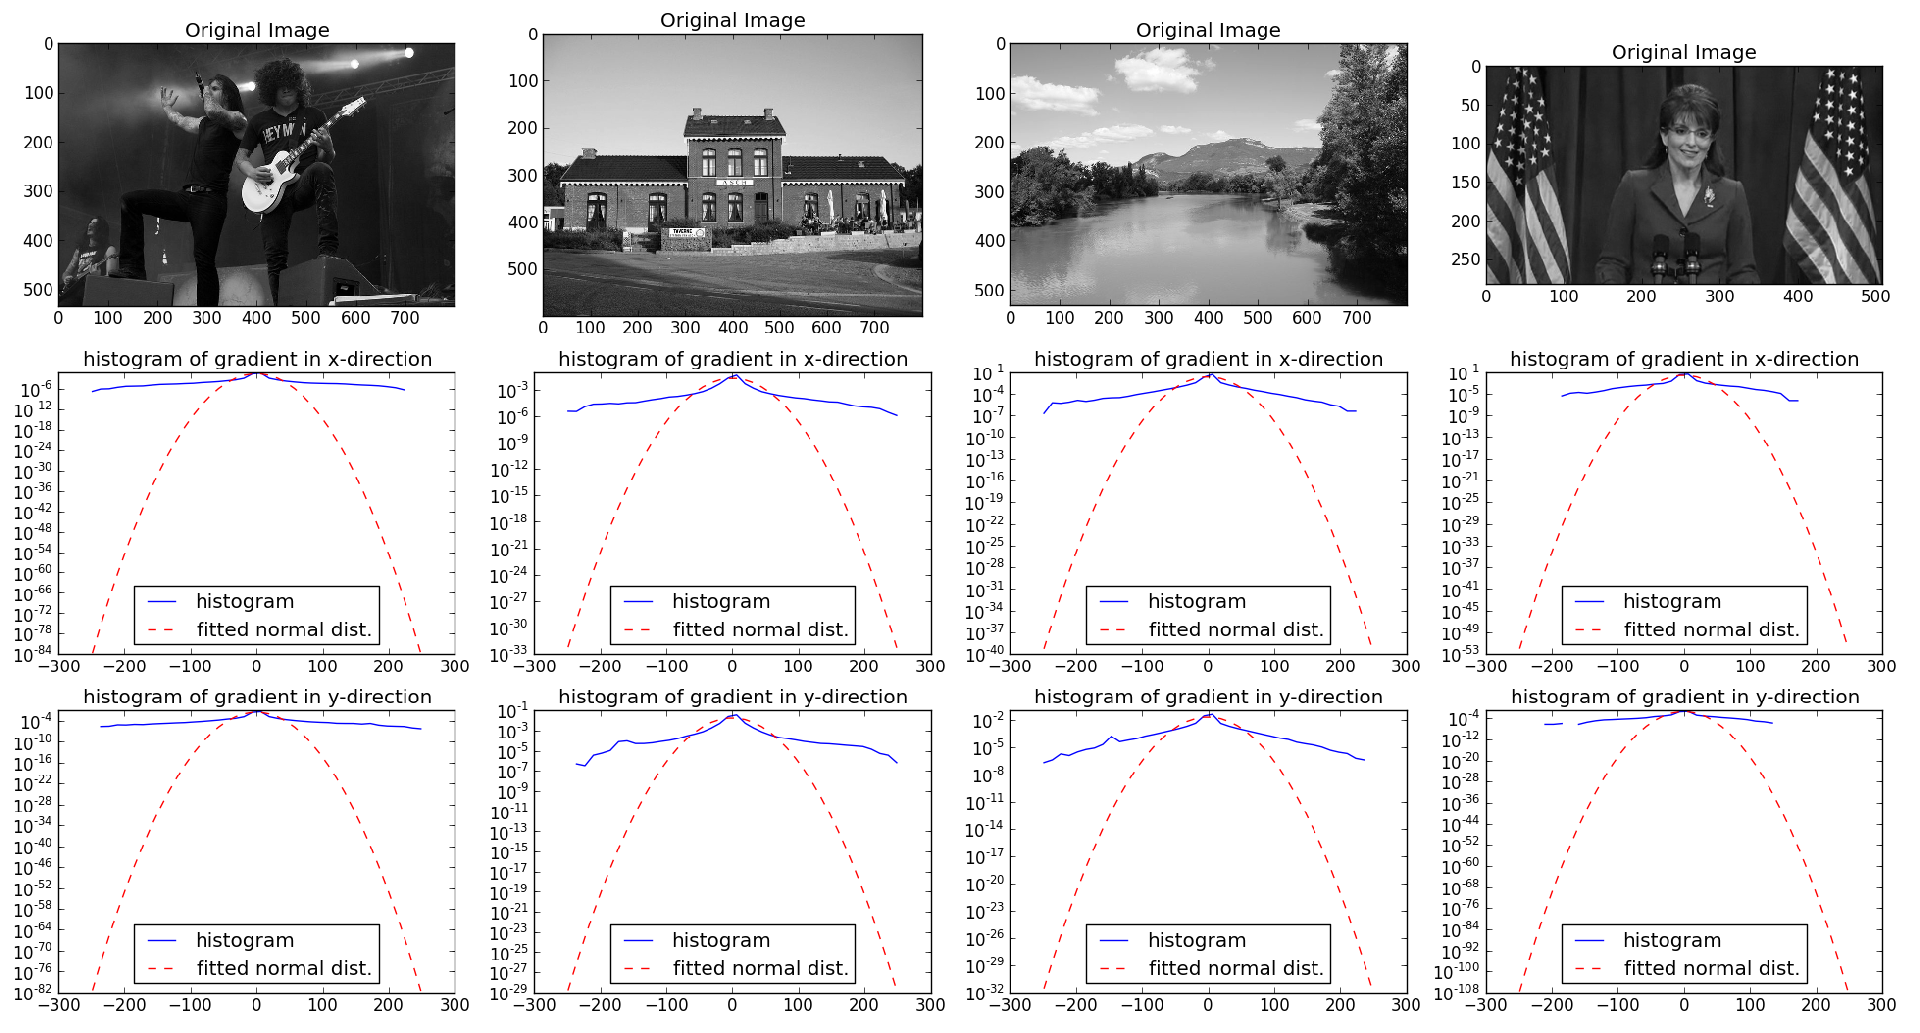
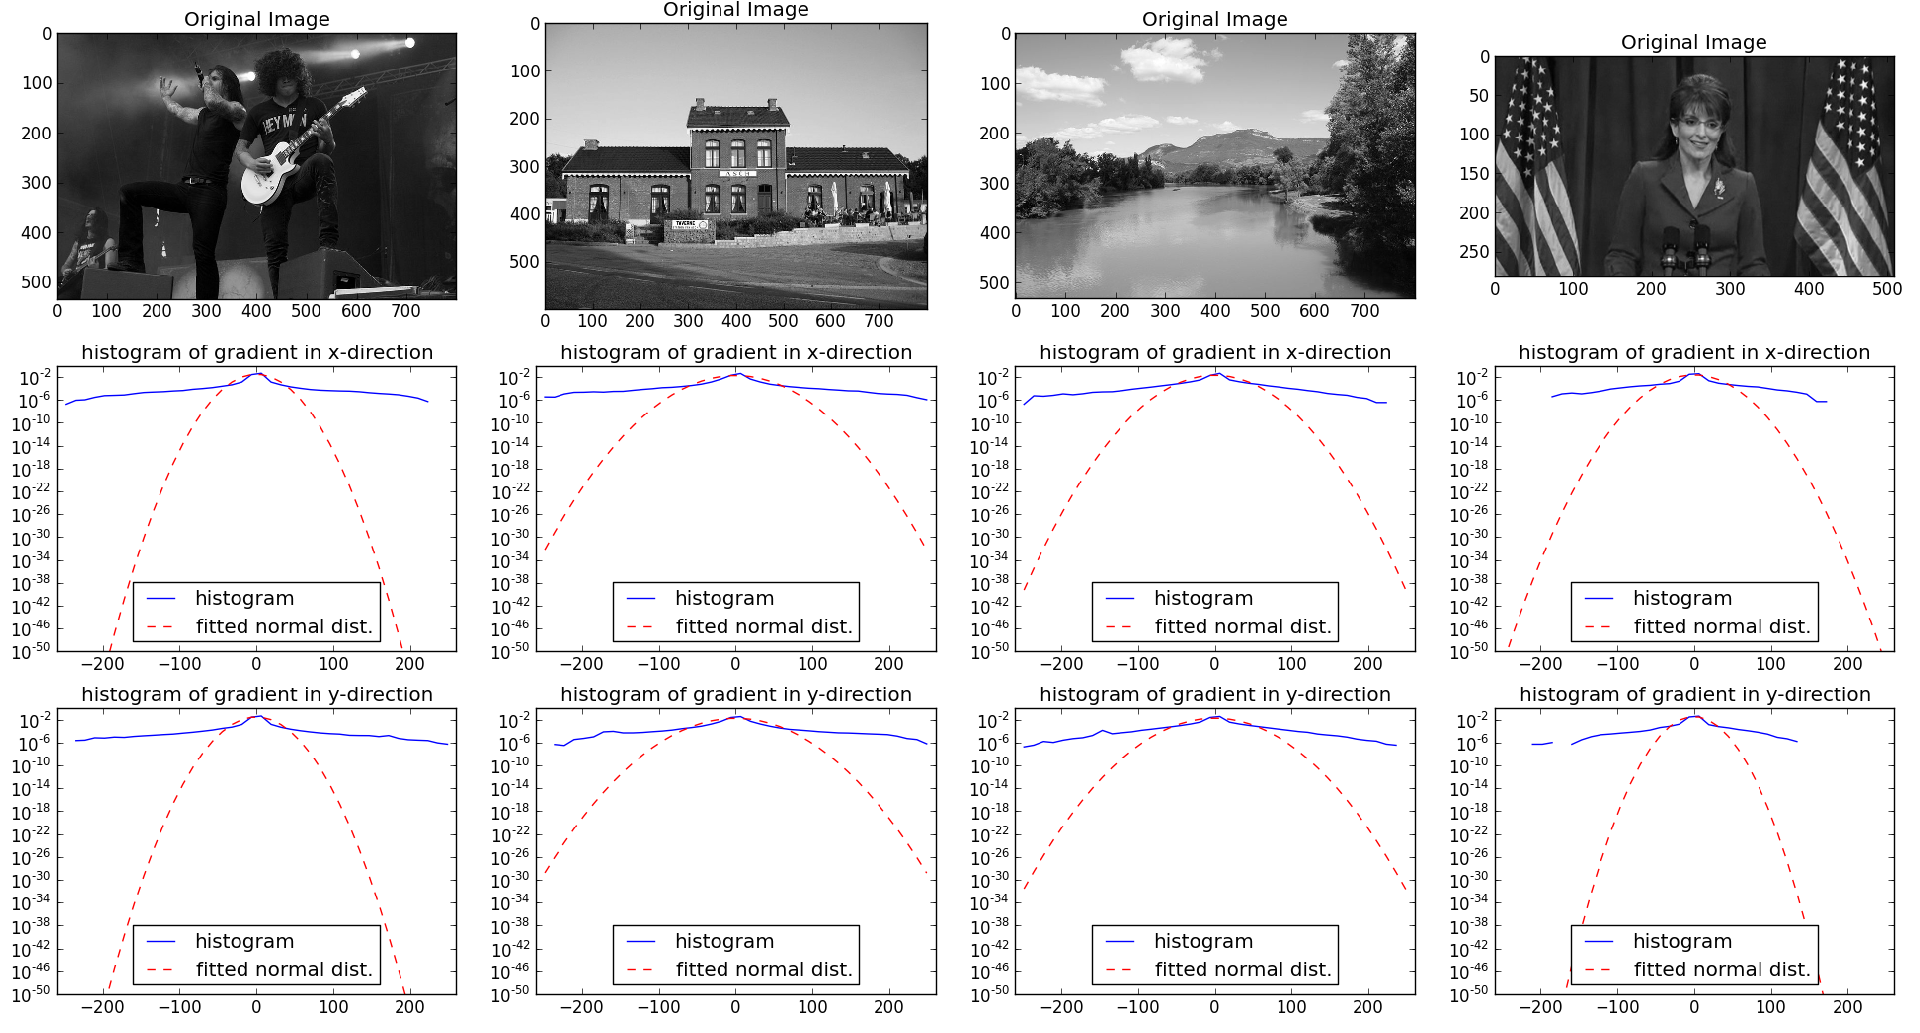
regularized plots

diff --git a/image_analysis/ex7/mdoering_writeup.tex b/image_analysis/ex7/mdoering_writeup.tex
@@ -23,8 +23,6 @@
 
 \newtheorem*{theorem}{Theorem}
 
-
-
 \begin{document}
 
 \lstdefinestyle{customc}{
@@ -50,7 +48,8 @@
 \section{Natural Image Statistics}
 All python code for this excercise is found in file \verb$ia_07_01.py$ and in the appendix. 
 
-In figure \ref{fig:1} we can see the histograms for the gradients of 4 natural images. 
+In figure \ref{fig:1} we can see the histograms for the gradients of 4 natural images. The histograms arer more heavy-tailed compared to a Gaussian because of the areas of no intensity change and the sharp edges 
+that are present in natural images. 
 
 \begin{figure}[hb]\label{fig:1}
 \includegraphics[width=.99\linewidth]{histograms_cut.png}

diff --git a/image_analysis/ex7/ia_07_01.py b/image_analysis/ex7/ia_07_01.py
@@ -95,6 +95,7 @@ def ex1():
         plot.semilogy(xbincenters,xgauss, 'r--')
         plot.legend(['histogram', 'fitted normal dist.'], loc='lower center')
         plot.title('histogram of gradient in x-direction')
+        plot.axis([-260,260,1e-50,1])
         
         # show histogram for y gradient
         plot.subplot(3, nImg, k+2*nImg+1)
@@ -103,6 +104,7 @@ def ex1():
         plot.semilogy(ybincenters,ygauss, 'r--')
         plot.legend(['histogram', 'fitted normal dist.'], loc='lower center')
         plot.title('histogram of gradient in y-direction')
+        plot.axis([-260,260,1e-50,1])
         
     plot.show()
     
